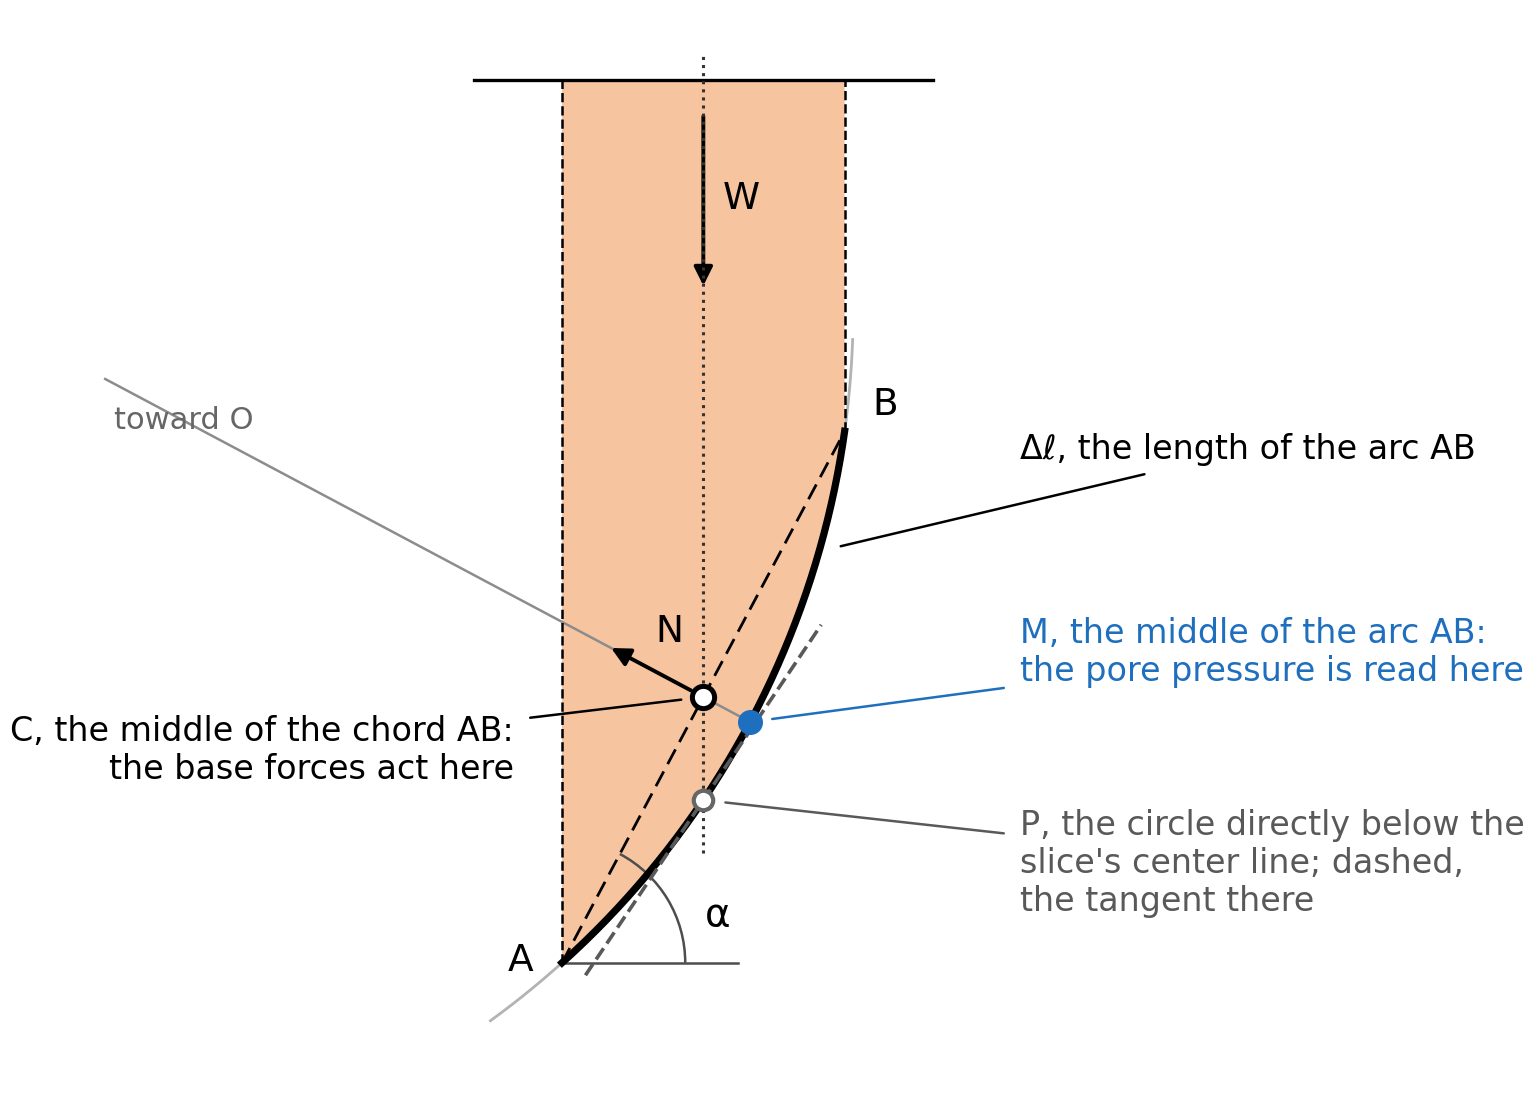
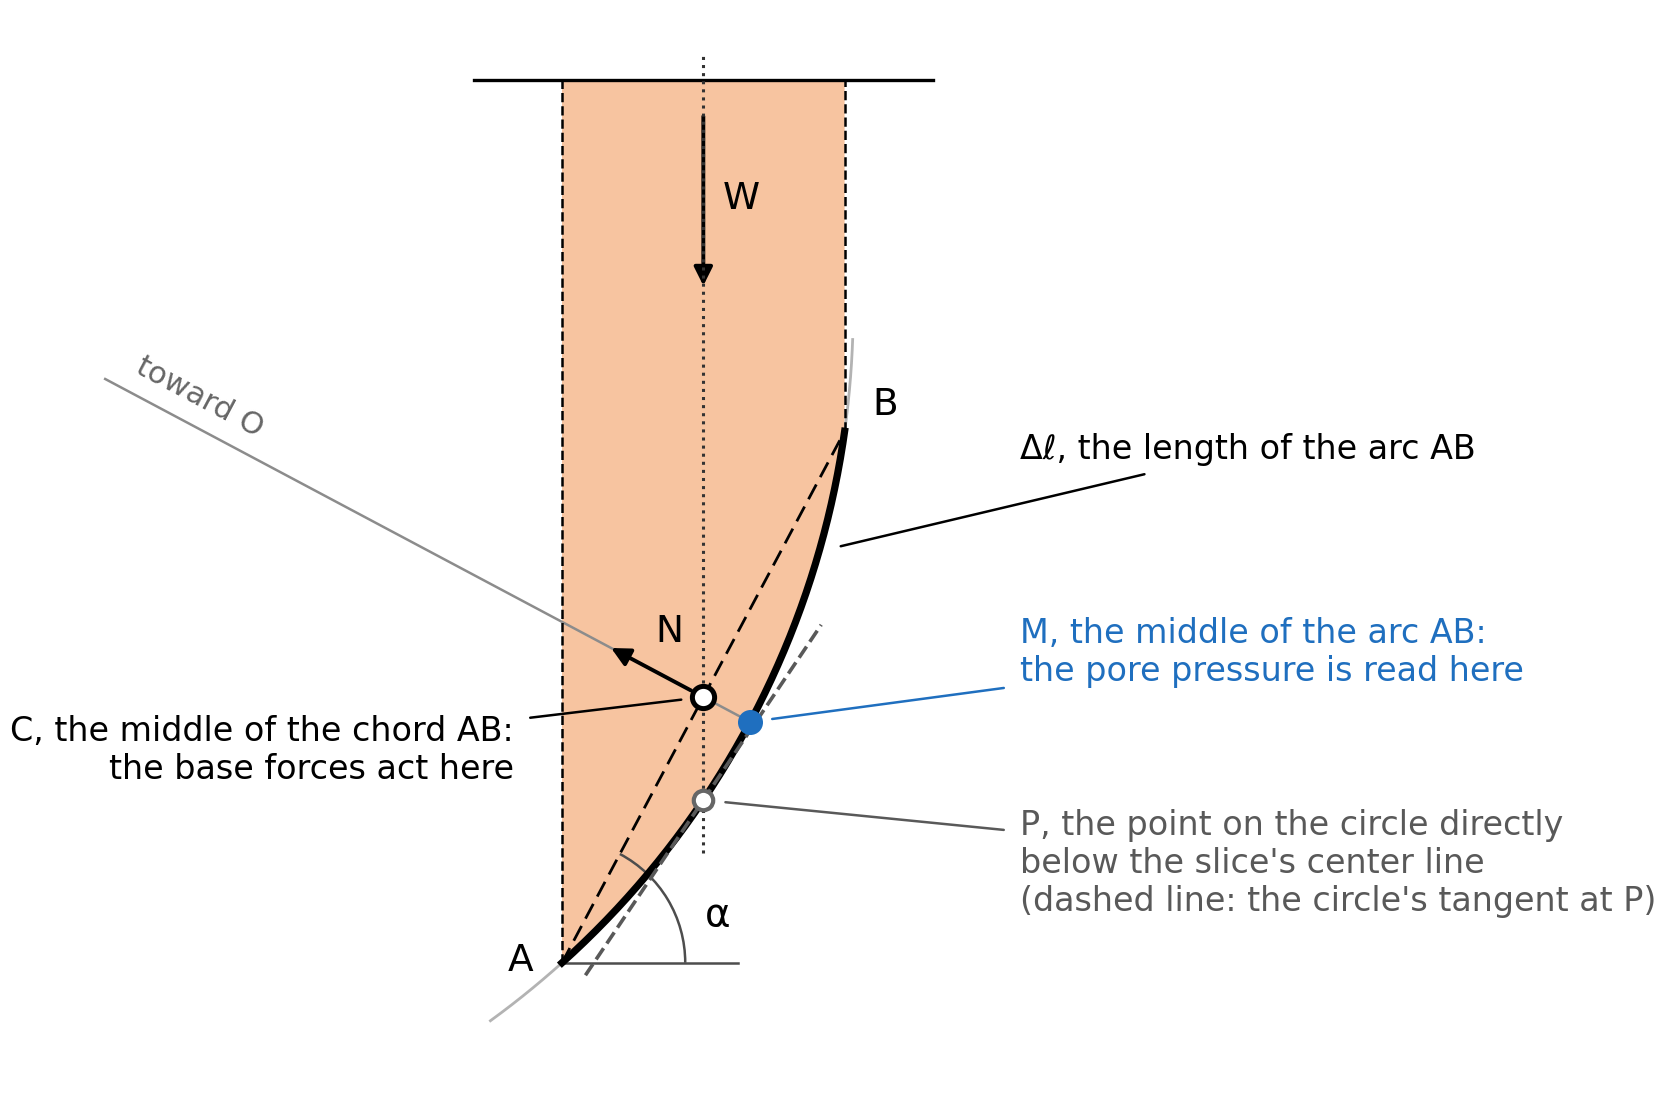
Circle-slice figure: "toward O" runs along its line; P's label says what the dashed line is
Claude-Session: https://claude.ai/code/session_019MWct99sAN4cmZsDr6H3a8

diff --git a/docs/lem/images/circle_slicing.py b/docs/lem/images/circle_slicing.py
@@ -158,8 +158,12 @@ def figure_base():
         ax.plot([p[0], q[0]], [p[1], q[1]], color=color, lw=lw, zorder=1)
         return q
     q = toward_o(M, "0.55", 0.9)
-    ax.text(q[0] + 0.1, q[1] - 0.3, "toward O", fontsize=11, color="0.4",
-            ha="left", va="top")
+    # along the line, just above it, near its far end
+    u = (M - q) / np.linalg.norm(M - q)
+    nrm = np.array([-u[1], u[0]]) if u[0] > 0 else np.array([u[1], -u[0]])
+    at = q + 0.25 * u + 0.16 * nrm
+    ax.text(at[0], at[1], "toward O", fontsize=11, color="0.4", ha="left", va="bottom",
+            rotation=np.degrees(np.arctan2(u[1], u[0])), rotation_mode="anchor")
 
     # the base: arc and chord
     ax.plot(arc[:, 0], arc[:, 1], color="black", lw=2.6, zorder=4)
@@ -209,8 +213,8 @@ def figure_base():
           "black")
     label(M, (right, -3.9), "M, the middle of the arc AB:\nthe pore pressure is read here",
           WATER)
-    label(P, (right, -6.3), "P, the circle directly below the\nslice's center line; dashed,\n"
-          "the tangent there", "0.35")
+    label(P, (right, -6.3), "P, the point on the circle directly\nbelow the slice's center line\n"
+          "(dashed line: the circle's tangent at P)", "0.35")
     ax.set_xlim(x_lo, x_hi)
     ax.set_ylim(y_lo, y_hi)
     ax.set_aspect("equal")

diff --git a/docs/lem/overview.md b/docs/lem/overview.md
@@ -305,7 +305,7 @@ A circular surface is cut into slices of equal angle, so each slice base spans t
 
 A base on the circle takes the arc between its corners A and B as its length $\Delta \ell$ and the chord AB for its inclination $\alpha$; the chord is parallel to the circle's tangent at M, the middle of the arc. The base forces act at C, the middle of the chord, and the pore pressure is read at M; under r<sub>u</sub>, the vertical stress is that of the soil column above M.
 
-![One steep slice: the arc AB, the chord AB, the points C, M and P](images/circle_slice_base.png){width="767px"}
+![One steep slice: the arc AB, the chord AB, the points C, M and P](images/circle_slice_base.png){width="833px"}
 
 *One steep slice drawn large. The weight W and the base forces act on the slice's center line, through C; the normal force N points at the circle's center O.*
 
